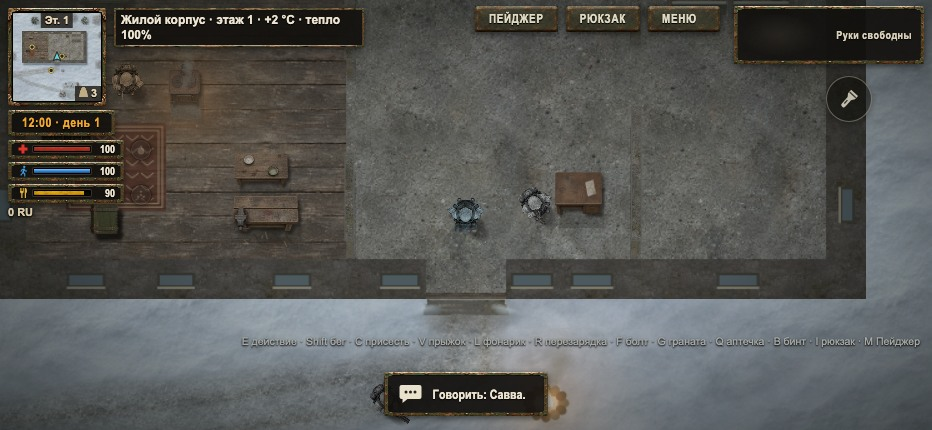
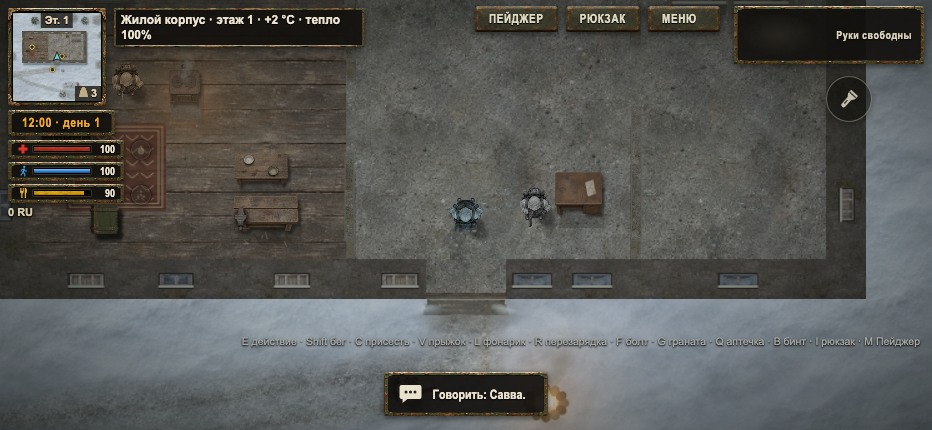
Verify matching interior and exterior winter window bays

diff --git a/src/berezki/scene.js b/src/berezki/scene.js
@@ -245,10 +245,8 @@ function winterRoom(r){
       const y=vertical?win.u:(side===2?h-15:15);
       g.translate(ox+x,oy+y);
       if(vertical)g.rotate(Math.PI/2);
-      g.fillStyle='#49473e';g.fillRect(-length/2-2,-6,length+4,13);
-      g.fillStyle=win.warm?'#928267':'#647275';g.fillRect(-length/2,-4,length,8);
-      for(let i=0;i<win.boards;i++)beam(g,-length/2,-3+i*5,length/2,i*5,3,'#847058');
-      g.fillStyle='#a39b85';g.fillRect(-length/2-2,5,length+4,2);g.restore();
+      winterSash(g,0,-5,length,10,win.take);
+      g.restore();
     }
   }
   if(r.n===1){

diff --git a/src/berezki/residence.js b/src/berezki/residence.js
@@ -30,7 +30,7 @@ function residenceWindows(side,storey,abandoned=false){
     if(!abandoned && storey===1 && side%2 && i===1)return [];
     const seed=hash2(i+storey*13,side*11+(abandoned?31:0));
     const take=abandoned || storey>3?(seed<.46?3:seed<.78?4:0):[0,1,5,2,4][Math.floor(seed*5)];
-    return [{u:tile*T,width:(side%2?23:26)+Math.floor(seed*8),boards:take===4?2:0,warm:take===2,take}];
+    return [{u:tile*T,width:(side%2?23:26)+Math.floor(seed*8),take}];
   });
 }
 function residenceWall(h,side){
